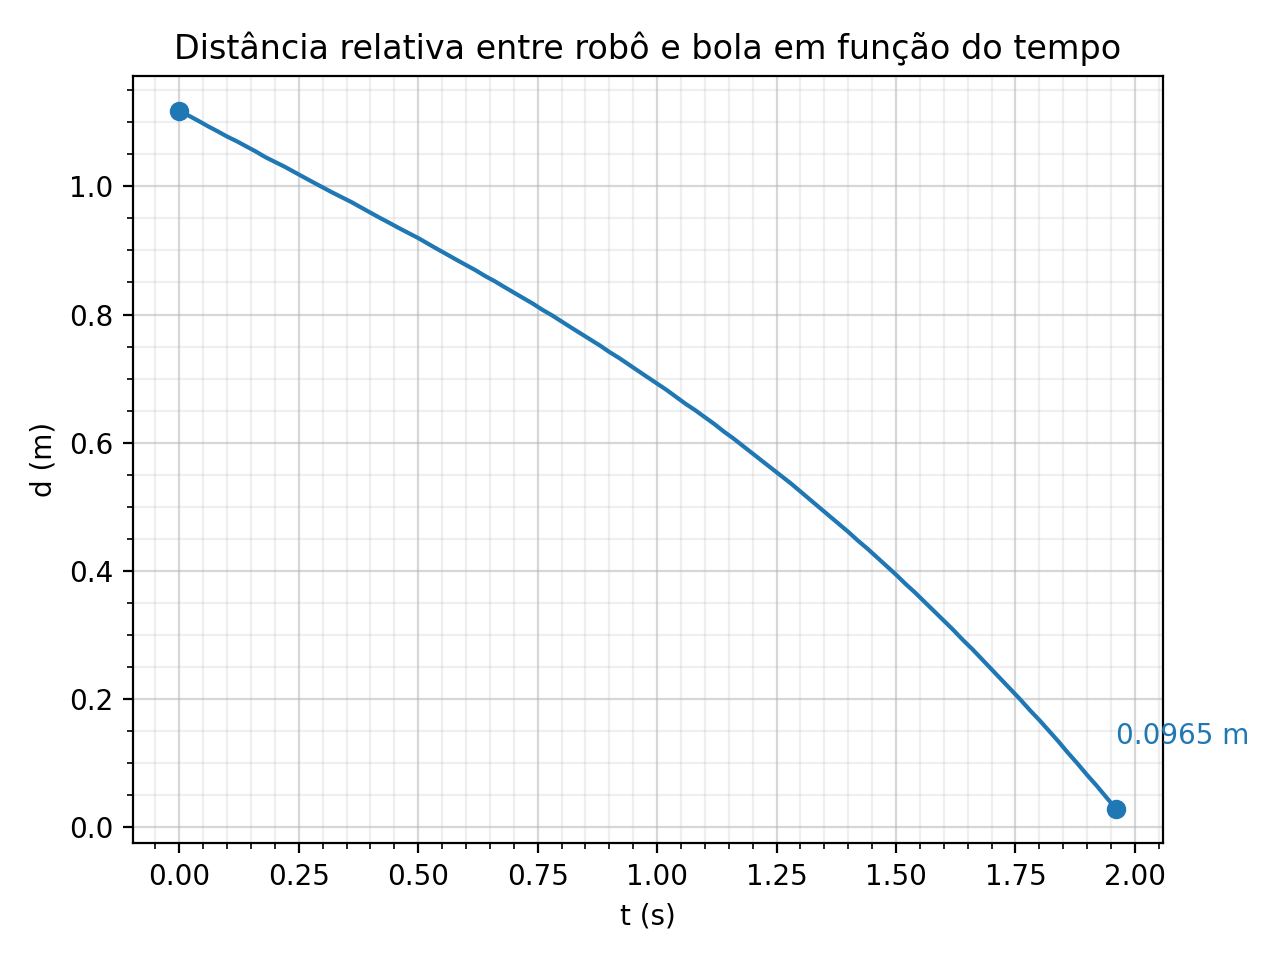
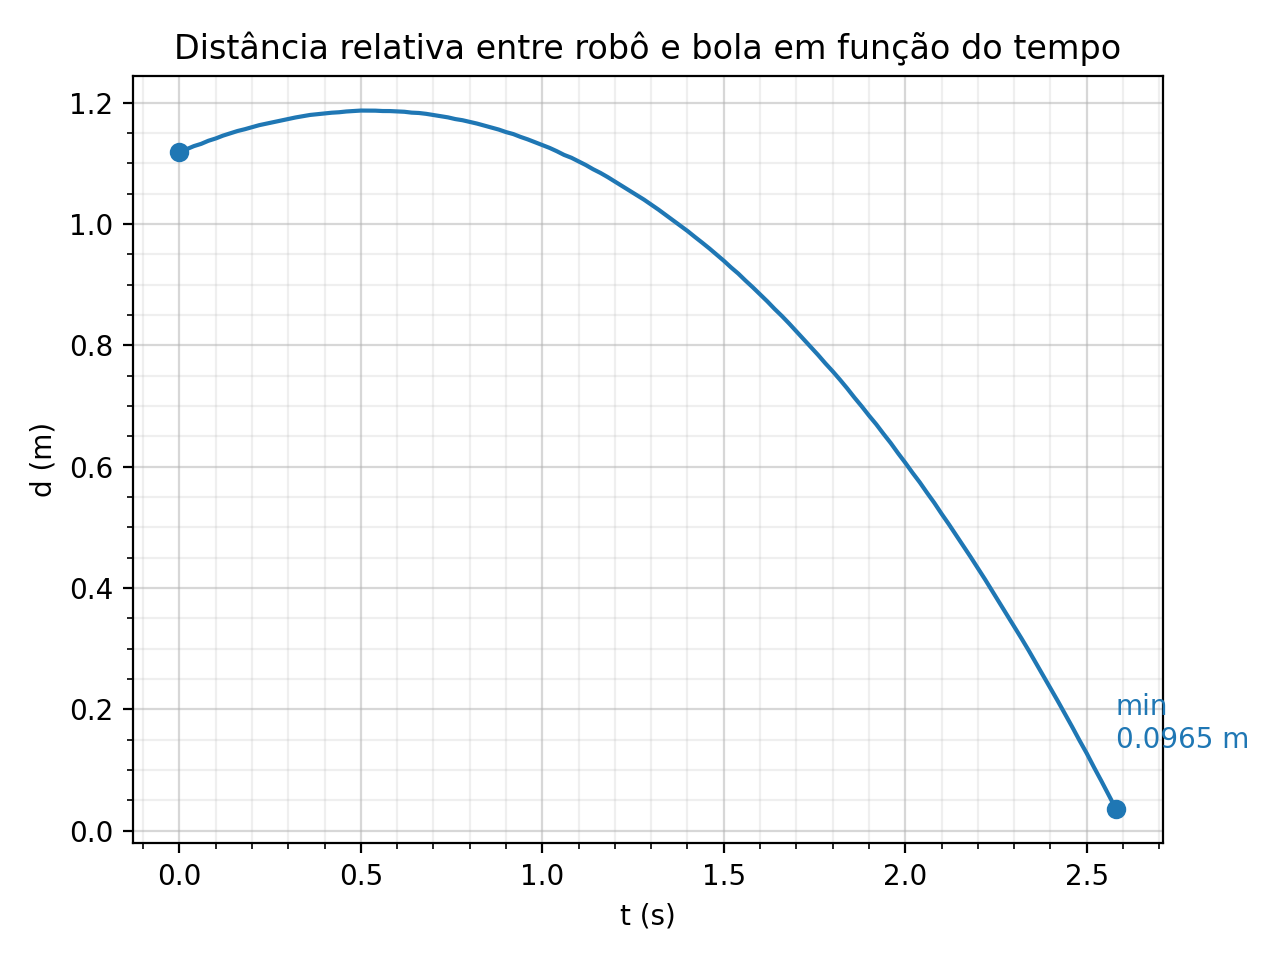
Fixed Distance Output

diff --git a/main.py b/main.py
@@ -392,7 +392,7 @@ def interceptacao(sx, sy, arquivo):
     # Plota a distancia relativa entre bola e robô
     fig, ax8 = plt.subplots()
     ax8.plot(t_dist, dist, label="Distancia Relativa", marker='o', markevery=[0, -1])
-    ax8.annotate(("%.4f m" % 0.0965), xy=(t_dist[dist.index(min(dist))], min(dist)), xytext=(t_dist[dist.index(min(dist))], min(dist) + 0.1), color = "C0")
+    ax8.annotate(("min\n%.4f m" % 0.0965), xy=(t_dist[dist.index(min(dist))], min(dist)), xytext=(t_dist[dist.index(min(dist))], min(dist) + 0.1), color = "C0")
     ax8.set(title = "Distância relativa entre robô e bola em função do tempo", xlabel = "t (s)", ylabel = "d (m)")
     ax8.minorticks_on()
     ax8.grid(which='both')
